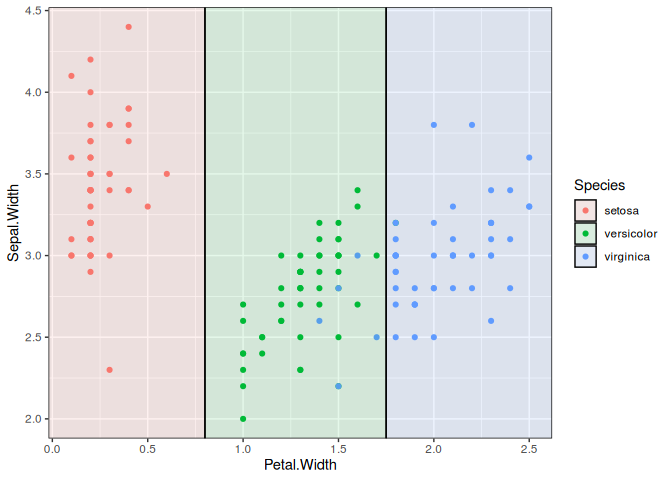
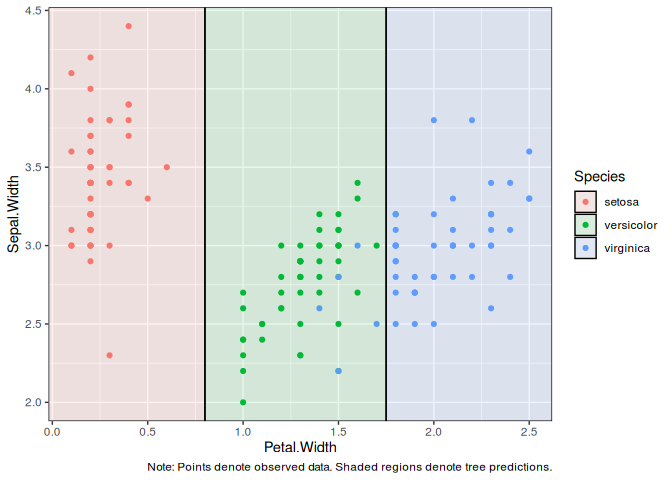
Package links

diff --git a/README.md b/README.md
@@ -21,12 +21,32 @@ remotes::install_github("grantmcdermott/parttree")
 
 ## Examples
 
+The main goal of the package is to convert decision tree objects
+(e.g. created with
+[**rpart**](https://cran.r-project.org/web/packages/rpart/index.html))
+into a data frame, which is amenable to visualizing as a partition plot.
+Here’s a simple example using everyone’s favourite `iris` dataset.
+
 ``` r
 library(rpart)
 library(parttree)
 
-d = parttree(rpart(Species ~ Sepal.Width + Petal.Width, data=iris))
-d
+tree_mod = rpart(Species ~ Sepal.Width + Petal.Width, data=iris)
+tree_mod
+#> n= 150 
+#> 
+#> node), split, n, loss, yval, (yprob)
+#>       * denotes terminal node
+#> 
+#> 1) root 150 100 setosa (0.33333333 0.33333333 0.33333333)  
+#>   2) Petal.Width< 0.8 50   0 setosa (1.00000000 0.00000000 0.00000000) *
+#>   3) Petal.Width>=0.8 100  50 versicolor (0.00000000 0.50000000 0.50000000)  
+#>     6) Petal.Width< 1.75 54   5 versicolor (0.00000000 0.90740741 0.09259259) *
+#>     7) Petal.Width>=1.75 46   1 virginica (0.00000000 0.02173913 0.97826087) *
+
+## Let's convert it to a partition data frame
+tree_mod_parted = parttree(tree_mod)
+tree_mod_parted
 #>    node                                       path xmin xmax ymin ymax
 #> 1:    2                         Petal.Width <  0.8 -Inf 0.80 -Inf  Inf
 #> 2:    6 Petal.Width >= 0.8 --> Petal.Width <  1.75 0.80 1.75 -Inf  Inf
@@ -37,9 +57,10 @@ d
 #> 3:  virginica
 ```
 
-The return object is designed to be compatible with **ggplot2** (in
-particular, `geom_rect`). This makes it convenient for visualizing
-partitions in conjunction with the original data.
+Again, the resulting data frame is designed to be compatible with
+[**ggplot2**](https://ggplot2.tidyverse.org/) (in particular,
+`geom_rect()`). This makes it convenient for visualizing partitions in
+conjunction with the original data.
 
 ``` r
 library(ggplot2)
@@ -47,17 +68,19 @@ library(ggplot2)
 ggplot() +
   geom_point(data = iris, aes(x=Petal.Width, y=Sepal.Width, col=Species)) +
   geom_rect(
-    data = d, alpha = 0.1, col = "black",
+    data = tree_mod_parted, alpha = 0.1, col = "black",
     aes(xmin=xmin, ymin=ymin, xmax=xmax, ymax=ymax, fill=Species)
-    ) 
+    ) +
+  labs(caption = "Note: Points denote observed data. Shaded regions denote tree predictions.")
 ```
 
 <img src="man/figures/README-iris_plot-1.png" width="100%" />
 
 Currently, the function only works with decision trees created by the
-**rpart** package. However, it does support other packages and modes
-that call `rpart()` as the underlying engine. Here’s an example using
-the **parsnip** package.
+[**rpart**](https://cran.r-project.org/web/packages/rpart/index.html)
+package. However, it does support other packages and modes that call
+`rpart::rpart()` as the underlying engine. Here’s an example using the
+[**parsnip**](https://tidymodels.github.io/parsnip/) package.
 
 ``` r
 library(titanic) ## Just for a different data set
